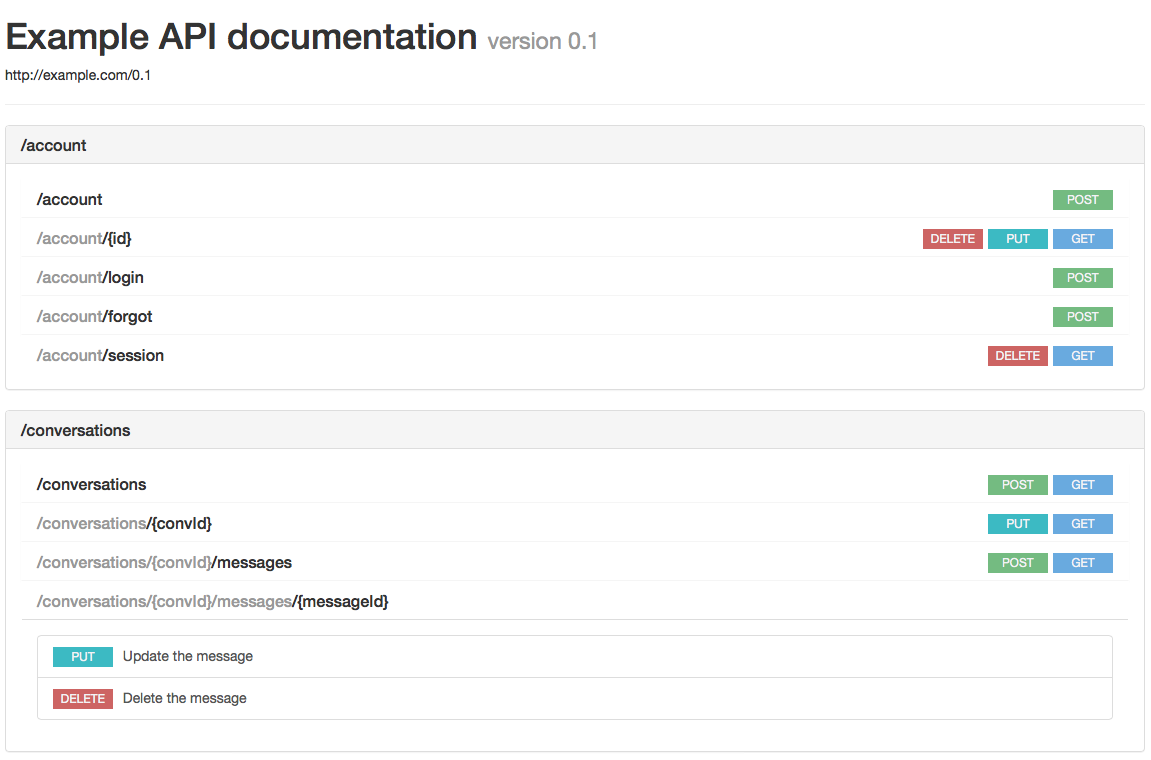
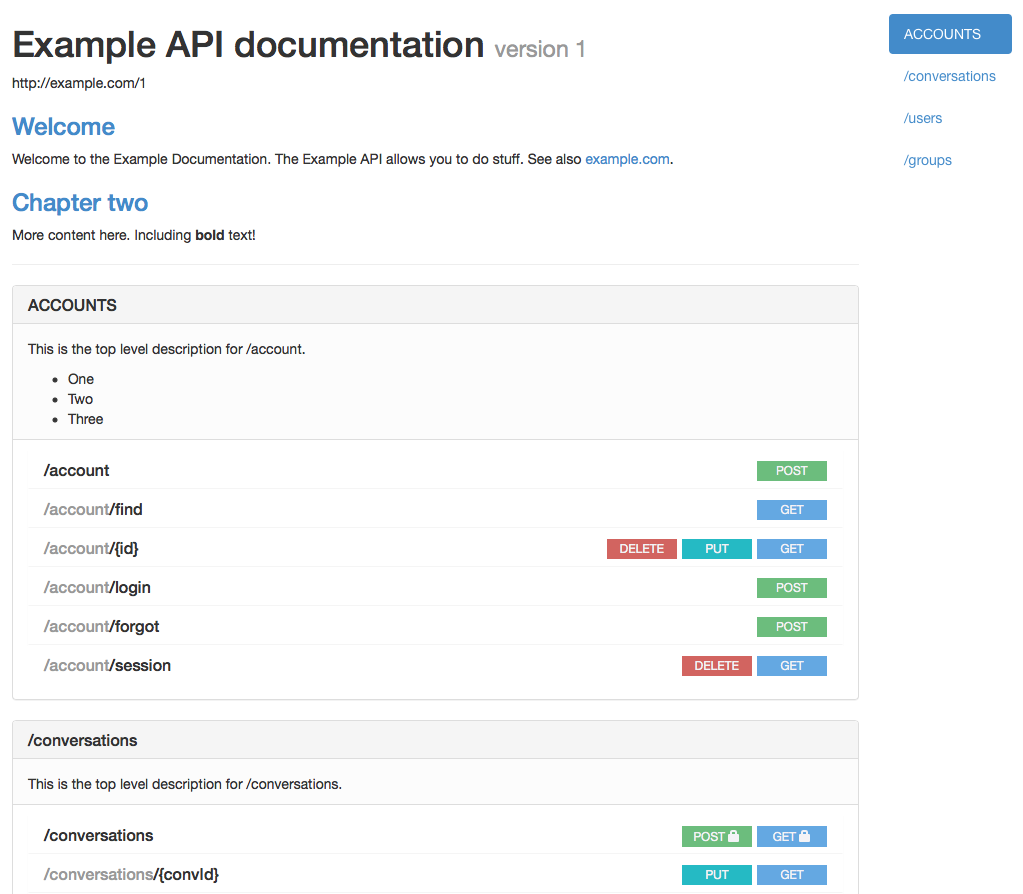
0.20.0

diff --git a/example.html b/example.html
@@ -110,12 +110,12 @@
                     <p>http://example.com/1</p>
 
                     
-                        <h3>Welcome</h3>
+                        <h3 id="Welcome"><a href="#Welcome">Welcome</a></h3>
                         <p>Welcome to the Example Documentation. The Example API allows you
 to do stuff. See also <a href="https://www.example.com">example.com</a>.</p>
 
                     
-                        <h3>Chapter two</h3>
+                        <h3 id="Chapter-two"><a href="#Chapter-two">Chapter two</a></h3>
                         <p>More content here. Including <strong>bold</strong> text!</p>
 
                     
@@ -183,7 +183,7 @@ to do stuff. See also <a href="https://www.example.com">example.com</a>.</p>
                         <!-- Nav tabs -->
                         <ul class="nav nav-tabs">
                             <li class="active">
-                                <a href="#_account_post_request"data-toggle="tab">Request</a>
+                                <a href="#_account_post_request" data-toggle="tab">Request</a>
                             </li>
                             
                                 <li>
@@ -282,7 +282,7 @@ to do stuff. See also <a href="https://www.example.com">example.com</a>.</p>
                         <!-- Nav tabs -->
                         <ul class="nav nav-tabs">
                             <li class="active">
-                                <a href="#_account_find_get_request"data-toggle="tab">Request</a>
+                                <a href="#_account_find_get_request" data-toggle="tab">Request</a>
                             </li>
                             
                         </ul>
@@ -421,7 +421,7 @@ to do stuff. See also <a href="https://www.example.com">example.com</a>.</p>
                         <!-- Nav tabs -->
                         <ul class="nav nav-tabs">
                             <li class="active">
-                                <a href="#_account__id__get_request"data-toggle="tab">Request</a>
+                                <a href="#_account__id__get_request" data-toggle="tab">Request</a>
                             </li>
                             
                         </ul>
@@ -467,7 +467,7 @@ to do stuff. See also <a href="https://www.example.com">example.com</a>.</p>
                         <!-- Nav tabs -->
                         <ul class="nav nav-tabs">
                             <li class="active">
-                                <a href="#_account__id__put_request"data-toggle="tab">Request</a>
+                                <a href="#_account__id__put_request" data-toggle="tab">Request</a>
                             </li>
                             
                         </ul>
@@ -562,7 +562,7 @@ to do stuff. See also <a href="https://www.example.com">example.com</a>.</p>
                         <!-- Nav tabs -->
                         <ul class="nav nav-tabs">
                             <li class="active">
-                                <a href="#_account__id__delete_request"data-toggle="tab">Request</a>
+                                <a href="#_account__id__delete_request" data-toggle="tab">Request</a>
                             </li>
                             
                         </ul>
@@ -638,7 +638,7 @@ to do stuff. See also <a href="https://www.example.com">example.com</a>.</p>
                         <!-- Nav tabs -->
                         <ul class="nav nav-tabs">
                             <li class="active">
-                                <a href="#_account_login_post_request"data-toggle="tab">Request</a>
+                                <a href="#_account_login_post_request" data-toggle="tab">Request</a>
                             </li>
                             
                                 <li>
@@ -746,7 +746,7 @@ to do stuff. See also <a href="https://www.example.com">example.com</a>.</p>
                         <!-- Nav tabs -->
                         <ul class="nav nav-tabs">
                             <li class="active">
-                                <a href="#_account_forgot_post_request"data-toggle="tab">Request</a>
+                                <a href="#_account_forgot_post_request" data-toggle="tab">Request</a>
                             </li>
                             
                         </ul>
@@ -836,7 +836,7 @@ to do stuff. See also <a href="https://www.example.com">example.com</a>.</p>
                         <!-- Nav tabs -->
                         <ul class="nav nav-tabs">
                             <li class="active">
-                                <a href="#_account_session_get_request"data-toggle="tab">Request</a>
+                                <a href="#_account_session_get_request" data-toggle="tab">Request</a>
                             </li>
                             
                         </ul>
@@ -875,7 +875,7 @@ to do stuff. See also <a href="https://www.example.com">example.com</a>.</p>
                         <!-- Nav tabs -->
                         <ul class="nav nav-tabs">
                             <li class="active">
-                                <a href="#_account_session_delete_request"data-toggle="tab">Request</a>
+                                <a href="#_account_session_delete_request" data-toggle="tab">Request</a>
                             </li>
                             
                         </ul>
@@ -926,9 +926,9 @@ to do stuff. See also <a href="https://www.example.com">example.com</a>.</p>
         <h4 class="panel-title">
             <a class="block collapsed" data-toggle="collapse" href="#panel__conversations">
                 
-                    <span class="badge badge_get">get</span>
+                    <span class="badge badge_get">get <span class="glyphicon glyphicon-lock" title="Authentication required"></span></span>
                 
-                    <span class="badge badge_post">post</span>
+                    <span class="badge badge_post">post <span class="glyphicon glyphicon-lock" title="Authentication required"></span></span>
                 
                 <span class="parent"></span>/conversations
             </a>
@@ -939,12 +939,12 @@ to do stuff. See also <a href="https://www.example.com">example.com</a>.</p>
             <div class="list-group">
                 
                     <a href="#" data-toggle="modal" data-target="#_conversations_get" class="list-group-item">
-                        <span class="badge badge_get">get</span>
+                        <span class="badge badge_get">get <span class="glyphicon glyphicon-lock" title="Authentication required"></span></span>
                         Get a list of conversation for the current user
                     </a>
                 
                     <a href="#" data-toggle="modal" data-target="#_conversations_post" class="list-group-item">
-                        <span class="badge badge_post">post</span>
+                        <span class="badge badge_post">post <span class="glyphicon glyphicon-lock" title="Authentication required"></span></span>
                         Create a new conversions. The currently logged in user doesn&#x27;t need to be supplied in the members list, it&#x27;s implied.
                     </a>
                 
@@ -959,7 +959,7 @@ to do stuff. See also <a href="https://www.example.com">example.com</a>.</p>
                     <div class="modal-header">
                         <button type="button" class="close" data-dismiss="modal" aria-hidden="true">&times;</button>
                         <h4 class="modal-title" id="myModalLabel">
-                            <span class="badge badge_get">get</span>
+                            <span class="badge badge_get">get <span class="glyphicon glyphicon-lock" title="Authentication required"></span></span>
                             <span class="parent"></span>/conversations
                         </h4>
                     </div>
@@ -970,7 +970,7 @@ to do stuff. See also <a href="https://www.example.com">example.com</a>.</p>
                         <!-- Nav tabs -->
                         <ul class="nav nav-tabs">
                             <li class="active">
-                                <a href="#_conversations_get_request"data-toggle="tab">Request</a>
+                                <a href="#_conversations_get_request" data-toggle="tab">Request</a>
                             </li>
                             
                         </ul>
@@ -998,7 +998,7 @@ to do stuff. See also <a href="https://www.example.com">example.com</a>.</p>
                     <div class="modal-header">
                         <button type="button" class="close" data-dismiss="modal" aria-hidden="true">&times;</button>
                         <h4 class="modal-title" id="myModalLabel">
-                            <span class="badge badge_post">post</span>
+                            <span class="badge badge_post">post <span class="glyphicon glyphicon-lock" title="Authentication required"></span></span>
                             <span class="parent"></span>/conversations
                         </h4>
                     </div>
@@ -1009,7 +1009,7 @@ to do stuff. See also <a href="https://www.example.com">example.com</a>.</p>
                         <!-- Nav tabs -->
                         <ul class="nav nav-tabs">
                             <li class="active">
-                                <a href="#_conversations_post_request"data-toggle="tab">Request</a>
+                                <a href="#_conversations_post_request" data-toggle="tab">Request</a>
                             </li>
                             
                                 <li>
@@ -1122,7 +1122,7 @@ to do stuff. See also <a href="https://www.example.com">example.com</a>.</p>
                         <!-- Nav tabs -->
                         <ul class="nav nav-tabs">
                             <li class="active">
-                                <a href="#_conversations__convId__get_request"data-toggle="tab">Request</a>
+                                <a href="#_conversations__convId__get_request" data-toggle="tab">Request</a>
                             </li>
                             
                         </ul>
@@ -1168,7 +1168,7 @@ to do stuff. See also <a href="https://www.example.com">example.com</a>.</p>
                         <!-- Nav tabs -->
                         <ul class="nav nav-tabs">
                             <li class="active">
-                                <a href="#_conversations__convId__put_request"data-toggle="tab">Request</a>
+                                <a href="#_conversations__convId__put_request" data-toggle="tab">Request</a>
                             </li>
                             
                         </ul>
@@ -1249,7 +1249,7 @@ to do stuff. See also <a href="https://www.example.com">example.com</a>.</p>
                         <!-- Nav tabs -->
                         <ul class="nav nav-tabs">
                             <li class="active">
-                                <a href="#_conversations__convId__messages_get_request"data-toggle="tab">Request</a>
+                                <a href="#_conversations__convId__messages_get_request" data-toggle="tab">Request</a>
                             </li>
                             
                         </ul>
@@ -1330,7 +1330,7 @@ to do stuff. See also <a href="https://www.example.com">example.com</a>.</p>
                         <!-- Nav tabs -->
                         <ul class="nav nav-tabs">
                             <li class="active">
-                                <a href="#_conversations__convId__messages_post_request"data-toggle="tab">Request</a>
+                                <a href="#_conversations__convId__messages_post_request" data-toggle="tab">Request</a>
                             </li>
                             
                         </ul>
@@ -1411,7 +1411,7 @@ to do stuff. See also <a href="https://www.example.com">example.com</a>.</p>
                         <!-- Nav tabs -->
                         <ul class="nav nav-tabs">
                             <li class="active">
-                                <a href="#_conversations__convId__messages__messageId__put_request"data-toggle="tab">Request</a>
+                                <a href="#_conversations__convId__messages__messageId__put_request" data-toggle="tab">Request</a>
                             </li>
                             
                         </ul>
@@ -1459,7 +1459,7 @@ to do stuff. See also <a href="https://www.example.com">example.com</a>.</p>
                         <!-- Nav tabs -->
                         <ul class="nav nav-tabs">
                             <li class="active">
-                                <a href="#_conversations__convId__messages__messageId__delete_request"data-toggle="tab">Request</a>
+                                <a href="#_conversations__convId__messages__messageId__delete_request" data-toggle="tab">Request</a>
                             </li>
                             
                         </ul>
@@ -1562,7 +1562,7 @@ to do stuff. See also <a href="https://www.example.com">example.com</a>.</p>
                         <!-- Nav tabs -->
                         <ul class="nav nav-tabs">
                             <li class="active">
-                                <a href="#_users_get_request"data-toggle="tab">Request</a>
+                                <a href="#_users_get_request" data-toggle="tab">Request</a>
                             </li>
                             
                         </ul>
@@ -1636,7 +1636,7 @@ to do stuff. See also <a href="https://www.example.com">example.com</a>.</p>
                         <!-- Nav tabs -->
                         <ul class="nav nav-tabs">
                             <li class="active">
-                                <a href="#_users_post_request"data-toggle="tab">Request</a>
+                                <a href="#_users_post_request" data-toggle="tab">Request</a>
                             </li>
                             
                         </ul>
@@ -1732,7 +1732,7 @@ to do stuff. See also <a href="https://www.example.com">example.com</a>.</p>
                         <!-- Nav tabs -->
                         <ul class="nav nav-tabs">
                             <li class="active">
-                                <a href="#_users__userId__get_request"data-toggle="tab">Request</a>
+                                <a href="#_users__userId__get_request" data-toggle="tab">Request</a>
                             </li>
                             
                         </ul>
@@ -1778,7 +1778,7 @@ to do stuff. See also <a href="https://www.example.com">example.com</a>.</p>
                         <!-- Nav tabs -->
                         <ul class="nav nav-tabs">
                             <li class="active">
-                                <a href="#_users__userId__put_request"data-toggle="tab">Request</a>
+                                <a href="#_users__userId__put_request" data-toggle="tab">Request</a>
                             </li>
                             
                         </ul>
@@ -1824,7 +1824,7 @@ to do stuff. See also <a href="https://www.example.com">example.com</a>.</p>
                         <!-- Nav tabs -->
                         <ul class="nav nav-tabs">
                             <li class="active">
-                                <a href="#_users__userId__delete_request"data-toggle="tab">Request</a>
+                                <a href="#_users__userId__delete_request" data-toggle="tab">Request</a>
                             </li>
                             
                         </ul>
@@ -1921,7 +1921,7 @@ to do stuff. See also <a href="https://www.example.com">example.com</a>.</p>
                         <!-- Nav tabs -->
                         <ul class="nav nav-tabs">
                             <li class="active">
-                                <a href="#_groups_get_request"data-toggle="tab">Request</a>
+                                <a href="#_groups_get_request" data-toggle="tab">Request</a>
                             </li>
                             
                         </ul>
@@ -1960,7 +1960,7 @@ to do stuff. See also <a href="https://www.example.com">example.com</a>.</p>
                         <!-- Nav tabs -->
                         <ul class="nav nav-tabs">
                             <li class="active">
-                                <a href="#_groups_post_request"data-toggle="tab">Request</a>
+                                <a href="#_groups_post_request" data-toggle="tab">Request</a>
                             </li>
                             
                         </ul>
@@ -2056,7 +2056,7 @@ to do stuff. See also <a href="https://www.example.com">example.com</a>.</p>
                         <!-- Nav tabs -->
                         <ul class="nav nav-tabs">
                             <li class="active">
-                                <a href="#_groups__groupId__get_request"data-toggle="tab">Request</a>
+                                <a href="#_groups__groupId__get_request" data-toggle="tab">Request</a>
                             </li>
                             
                         </ul>
@@ -2102,7 +2102,7 @@ to do stuff. See also <a href="https://www.example.com">example.com</a>.</p>
                         <!-- Nav tabs -->
                         <ul class="nav nav-tabs">
                             <li class="active">
-                                <a href="#_groups__groupId__put_request"data-toggle="tab">Request</a>
+                                <a href="#_groups__groupId__put_request" data-toggle="tab">Request</a>
                             </li>
                             
                         </ul>
@@ -2163,7 +2163,7 @@ to do stuff. See also <a href="https://www.example.com">example.com</a>.</p>
                         <!-- Nav tabs -->
                         <ul class="nav nav-tabs">
                             <li class="active">
-                                <a href="#_groups__groupId__delete_request"data-toggle="tab">Request</a>
+                                <a href="#_groups__groupId__delete_request" data-toggle="tab">Request</a>
                             </li>
                             
                         </ul>
@@ -2237,7 +2237,7 @@ to do stuff. See also <a href="https://www.example.com">example.com</a>.</p>
                         <!-- Nav tabs -->
                         <ul class="nav nav-tabs">
                             <li class="active">
-                                <a href="#_groups__groupId__users_post_request"data-toggle="tab">Request</a>
+                                <a href="#_groups__groupId__users_post_request" data-toggle="tab">Request</a>
                             </li>
                             
                         </ul>
@@ -2325,7 +2325,7 @@ to do stuff. See also <a href="https://www.example.com">example.com</a>.</p>
                         <!-- Nav tabs -->
                         <ul class="nav nav-tabs">
                             <li class="active">
-                                <a href="#_groups__groupId__users__userId__delete_request"data-toggle="tab">Request</a>
+                                <a href="#_groups__groupId__users__userId__delete_request" data-toggle="tab">Request</a>
                             </li>
                             
                         </ul>

diff --git a/lib/raml2html.js b/lib/raml2html.js
@@ -82,8 +82,6 @@ function lockIconHelper(securedBy) {
 }
 
 function compileRamlObj(ramlObj, config, onSuccess) {
-    var idx, docSection;
-    
     ramlObj = parseBaseUri(ramlObj);
     ramlObj = traverse(ramlObj);
     ramlObj.config = config;
@@ -101,10 +99,13 @@ function compileRamlObj(ramlObj, config, onSuccess) {
             handlebars.registerPartial(partialName, config.partials[partialName]);
         }
     }
-    
-    for (idx in ramlObj.documentation) {
-        docSection = ramlObj.documentation[idx];
-        docSection.uniqueId = docSection.title.replace(/\W/g, '-');
+
+    // Add unique id's to top level documentation chapters
+    for (var idx in ramlObj.documentation) {
+        if (ramlObj.documentation.hasOwnProperty(idx)) {
+            var docSection = ramlObj.documentation[idx];
+            docSection.uniqueId = docSection.title.replace(/\W/g, '-');
+        }
     }
 
     var result = config.template(ramlObj);

diff --git a/changelog.md b/changelog.md
@@ -1,3 +1,7 @@
+0.20.0 - June 4, 2014
+- Fixed html output
+- Added anchors to top level documentation chapters
+
 0.19.0 - May 28, 2014
 - External resources automatically switch between http and https links
 - Attach the config object to the RAML object so it's accessible in your handlebars templates
